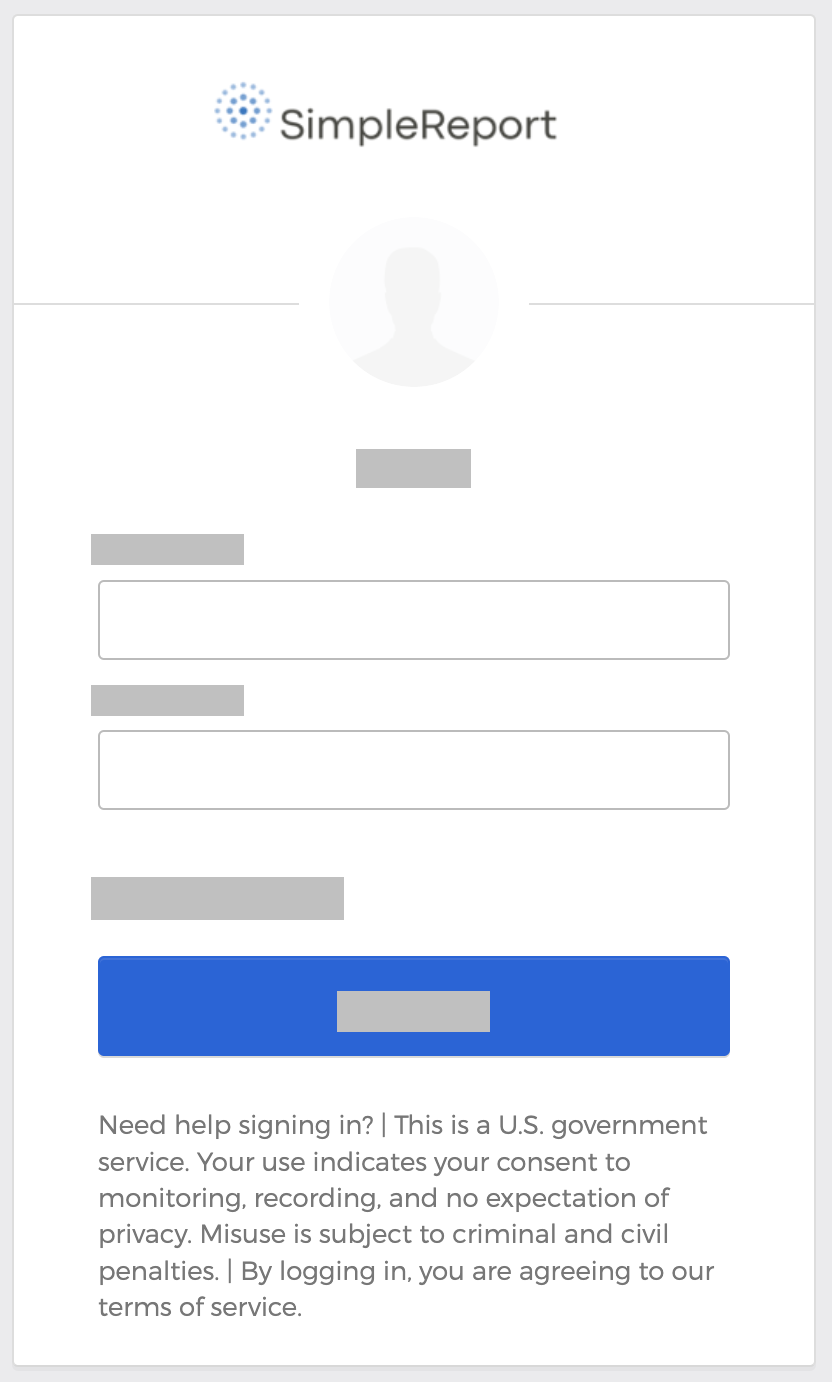
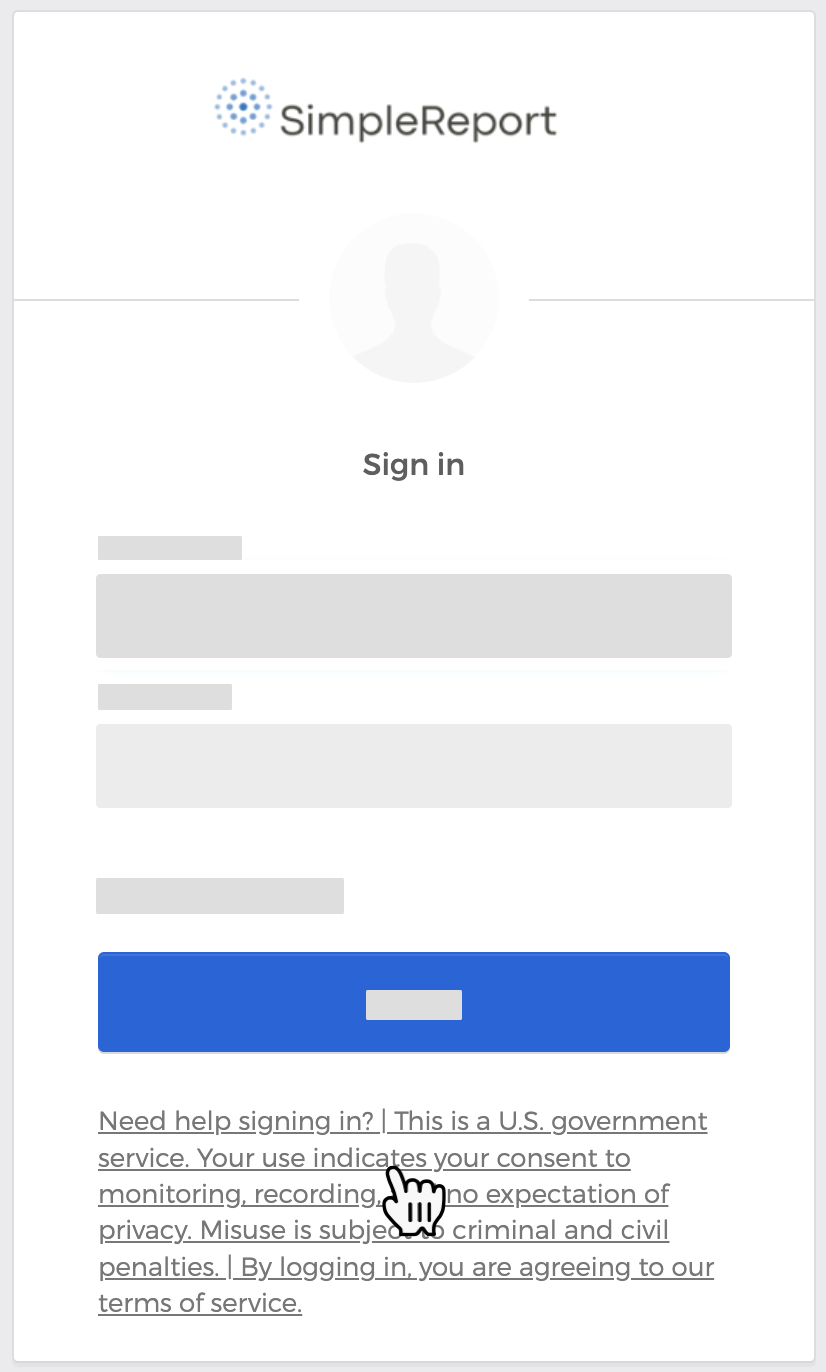
update screenshot and text

diff --git a/_pages/using-simplereport/reset-your-simplereport-password.md b/_pages/using-simplereport/reset-your-simplereport-password.md
@@ -12,7 +12,7 @@ To reset your password you can follow these steps:
 
 1. Go to [SimpleReport.gov](https://www.simplereport.gov/)
 2. Click **Log in** at the top right of the page.
-3. Click **Need help signing in?** at the bottom of the page.
+3. Click the **Need help signing in?** text at the bottom of the page, below the sign-in button.
    ![The "Sign in" Okta page with the "Need help signing in?" link]({% link assets/img/resources/reset-your-simplereport-password/step-3.png %})
 4. Click **Forgot password**.
 5. Enter your email address, then click the blue **Reset via Email** button.
